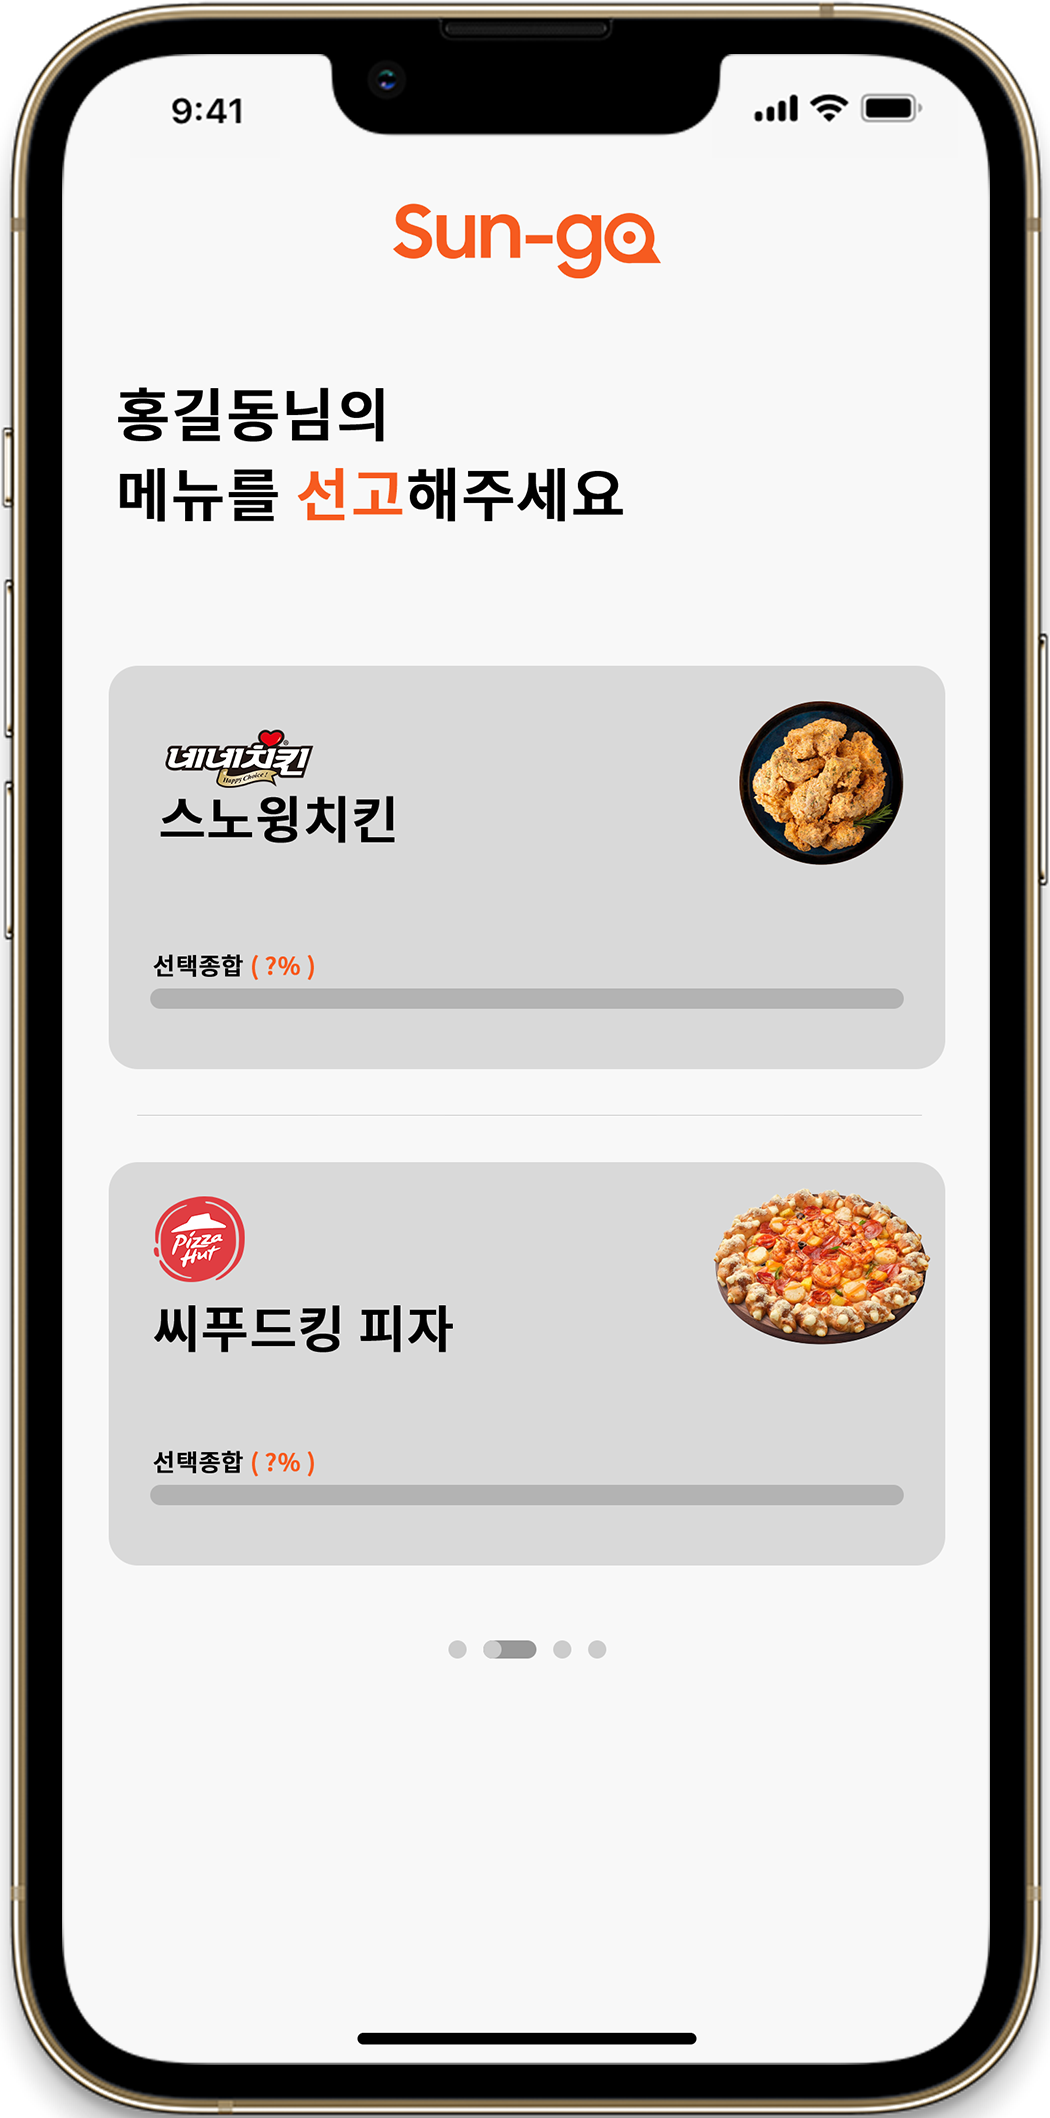
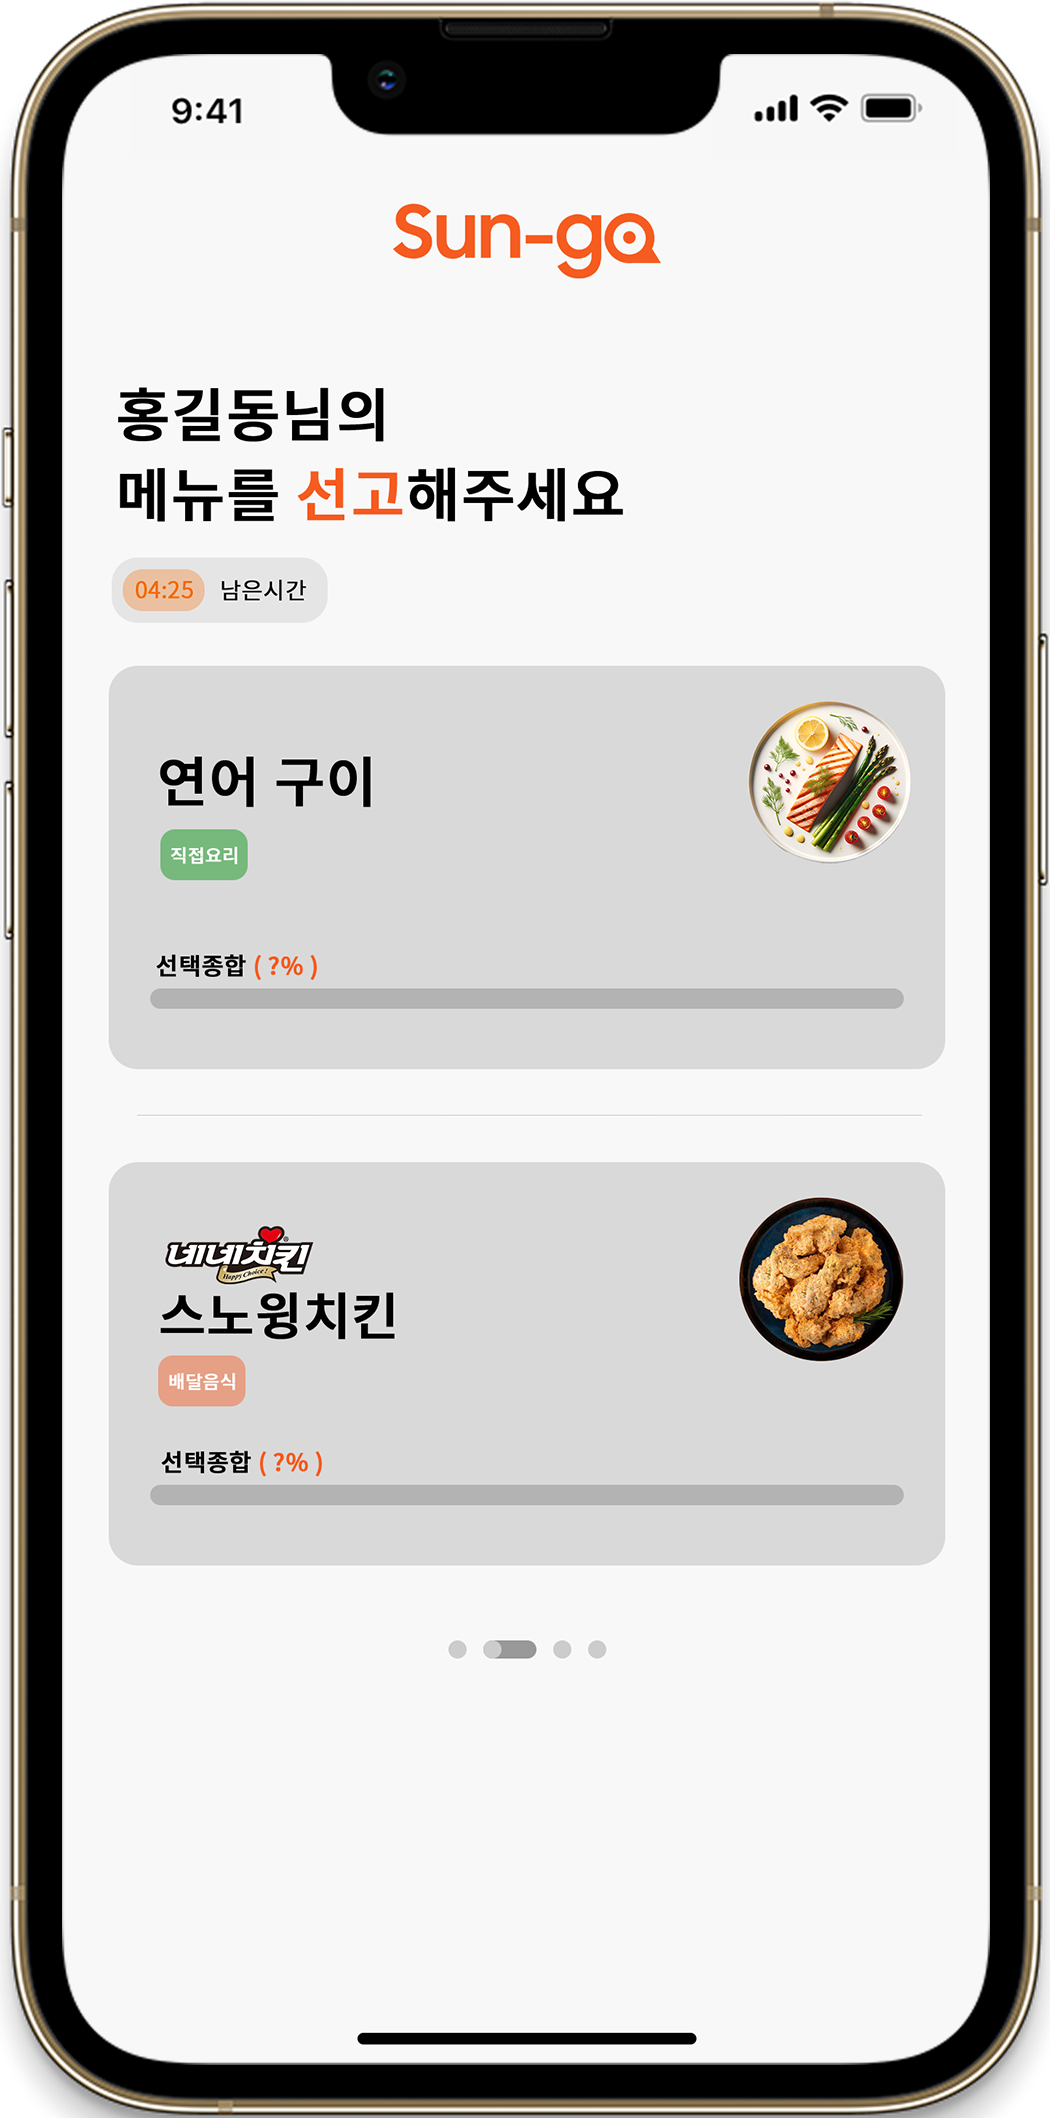
✨ Added: Two new prototypes, refined existing prototypes

diff --git a/README.md b/README.md
@@ -1,5 +1,5 @@
 <p align="center">
   <img width="180" src="Logo/sun-go.png" alt="Sun-go">
   <h1 align="center">Sun-go</h1>
-  <p align="center">당신의 메뉴 선고자 Sun-go (디자인 데모입니다.)</p>
+  <p align="center">당신의 메뉴 선고자 (디자인 데모입니다.)</p>
 </p>
